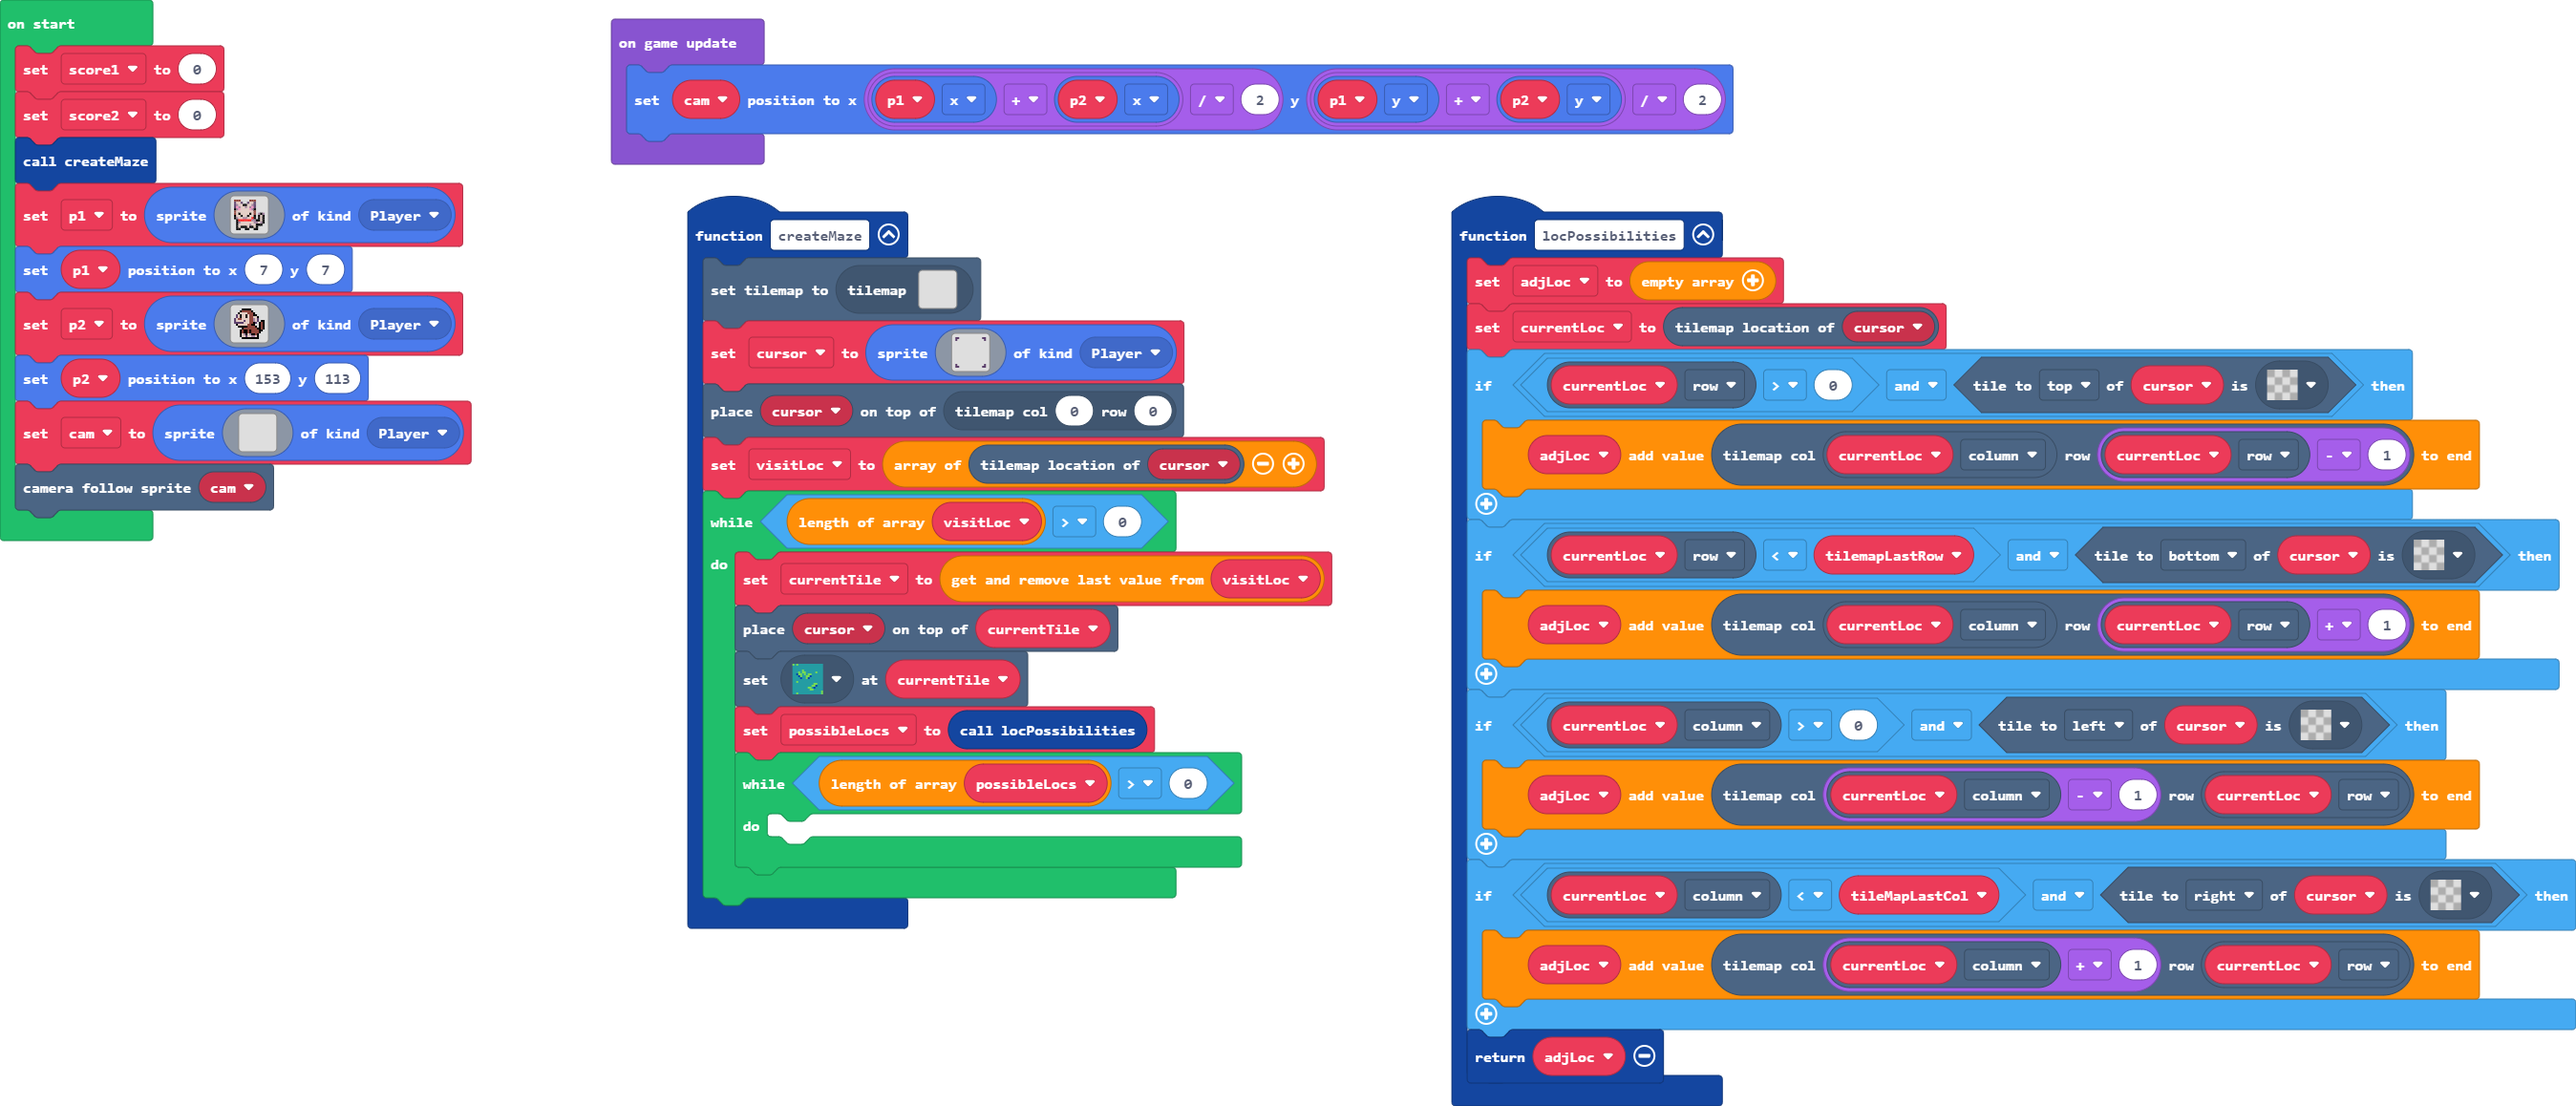
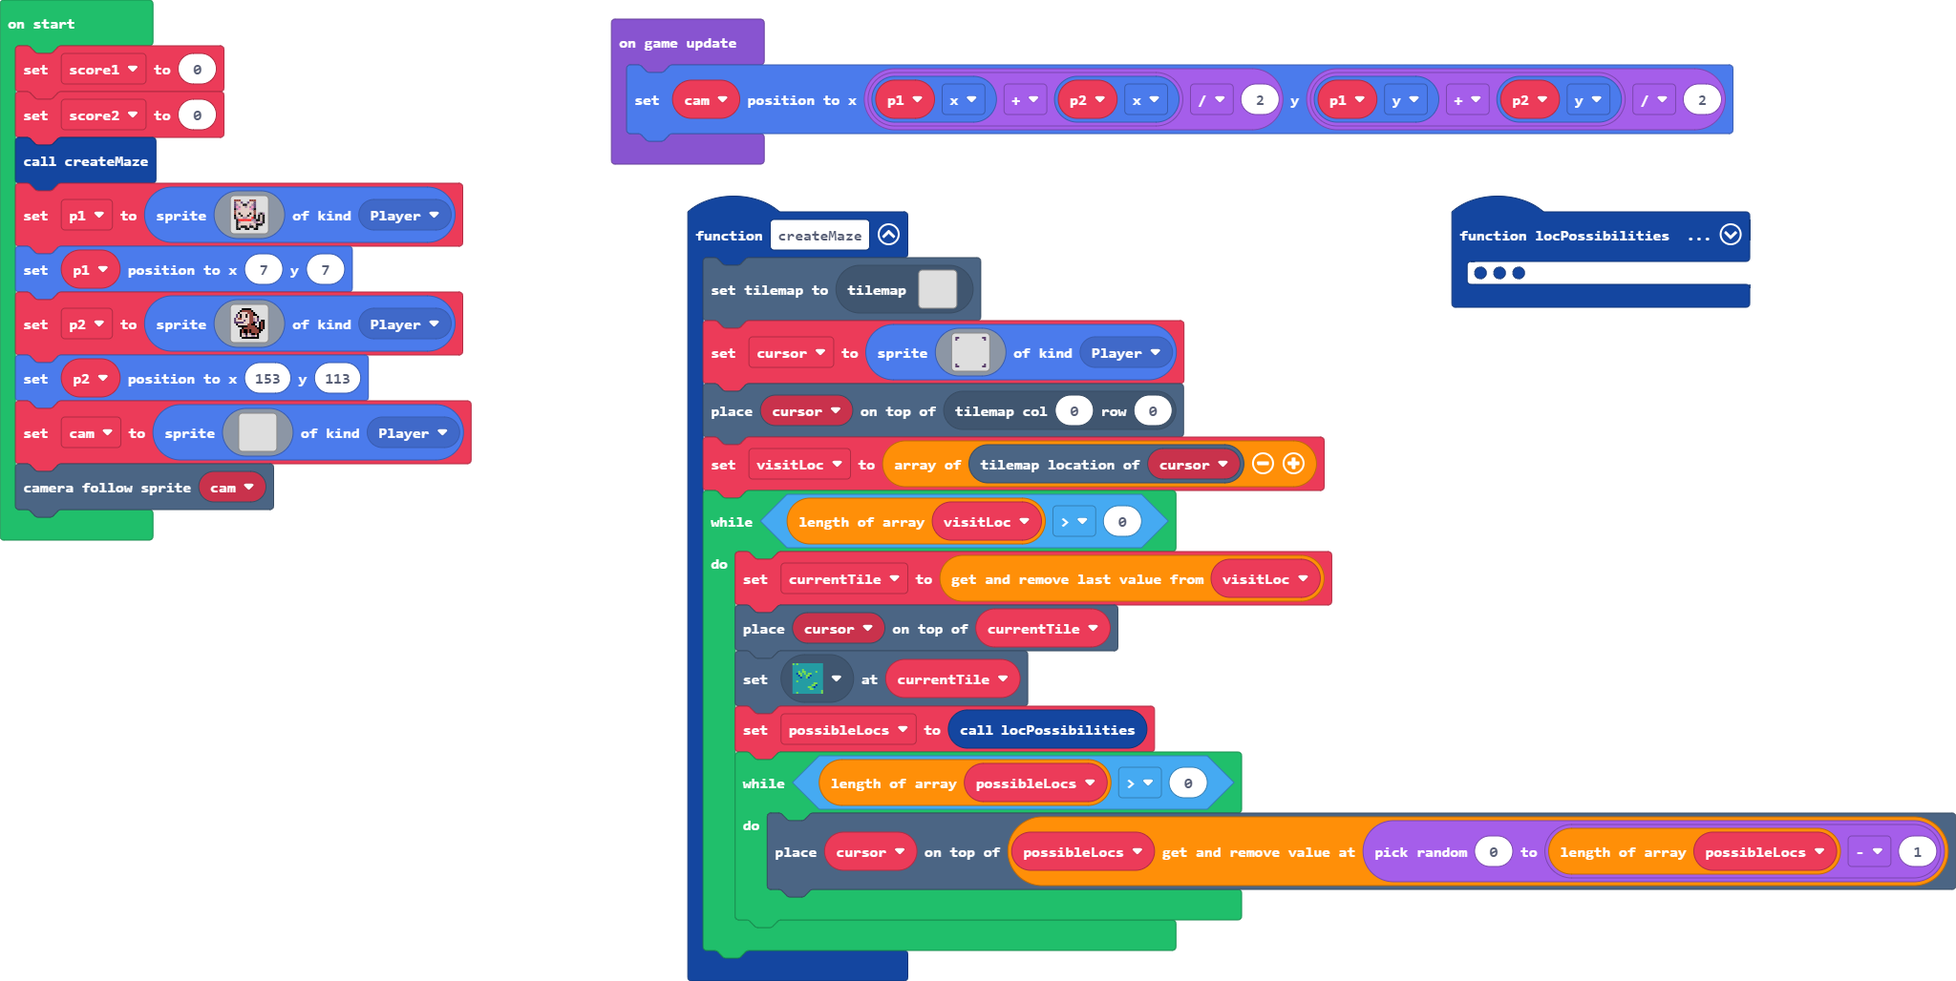
[createMaze function] set new cursor loc to random loc from locs found in locPossibilies function

diff --git a/tilemap.g.ts b/tilemap.g.ts
@@ -45,6 +45,25 @@ namespace myTiles {
 . . . . . . . . . . . . . . . . 
 . . . . . . . . . . . . . . . . 
 `, [myTiles.transparency16], TileScale.Sixteen);
+            case "level3":
+            case "level3":return tiles.createTilemap(hex`1000100000000000000000000000000000000000000000000000000000000000000000000000000000000000000000000000000000000000000000000000000000000000000000000000000000000000000000000000000000000000000000000000000000000000000000000000000000000000000000000000000000000000000000000000000000000000000000000000000000000000000000000000000000000000000000000000000000000000000000000000000000000000000000000000000000000000000000000000000000000000000000000000000000000000000000000000000000000000000000000000000000000000000000000000000000000000`, img`
+. . . . . . . . . . . . . . . . 
+. . . . . . . . . . . . . . . . 
+. . . . . . . . . . . . . . . . 
+. . . . . . . . . . . . . . . . 
+. . . . . . . . . . . . . . . . 
+. . . . . . . . . . . . . . . . 
+. . . . . . . . . . . . . . . . 
+. . . . . . . . . . . . . . . . 
+. . . . . . . . . . . . . . . . 
+. . . . . . . . . . . . . . . . 
+. . . . . . . . . . . . . . . . 
+. . . . . . . . . . . . . . . . 
+. . . . . . . . . . . . . . . . 
+. . . . . . . . . . . . . . . . 
+. . . . . . . . . . . . . . . . 
+. . . . . . . . . . . . . . . . 
+`, [myTiles.transparency16], TileScale.Sixteen);
         }
         return null;
     })

diff --git a/main.ts b/main.ts
@@ -45,7 +45,7 @@ function createMaze () {
         tiles.setTileAt(currentTile, assets.tile`myTile`)
         possibleLocs = locPossibilities()
         while (possibleLocs.length > 0) {
-        	
+            tiles.placeOnTile(cursor, possibleLocs.removeAt(randint(0, possibleLocs.length - 1)))
         }
     }
 }
